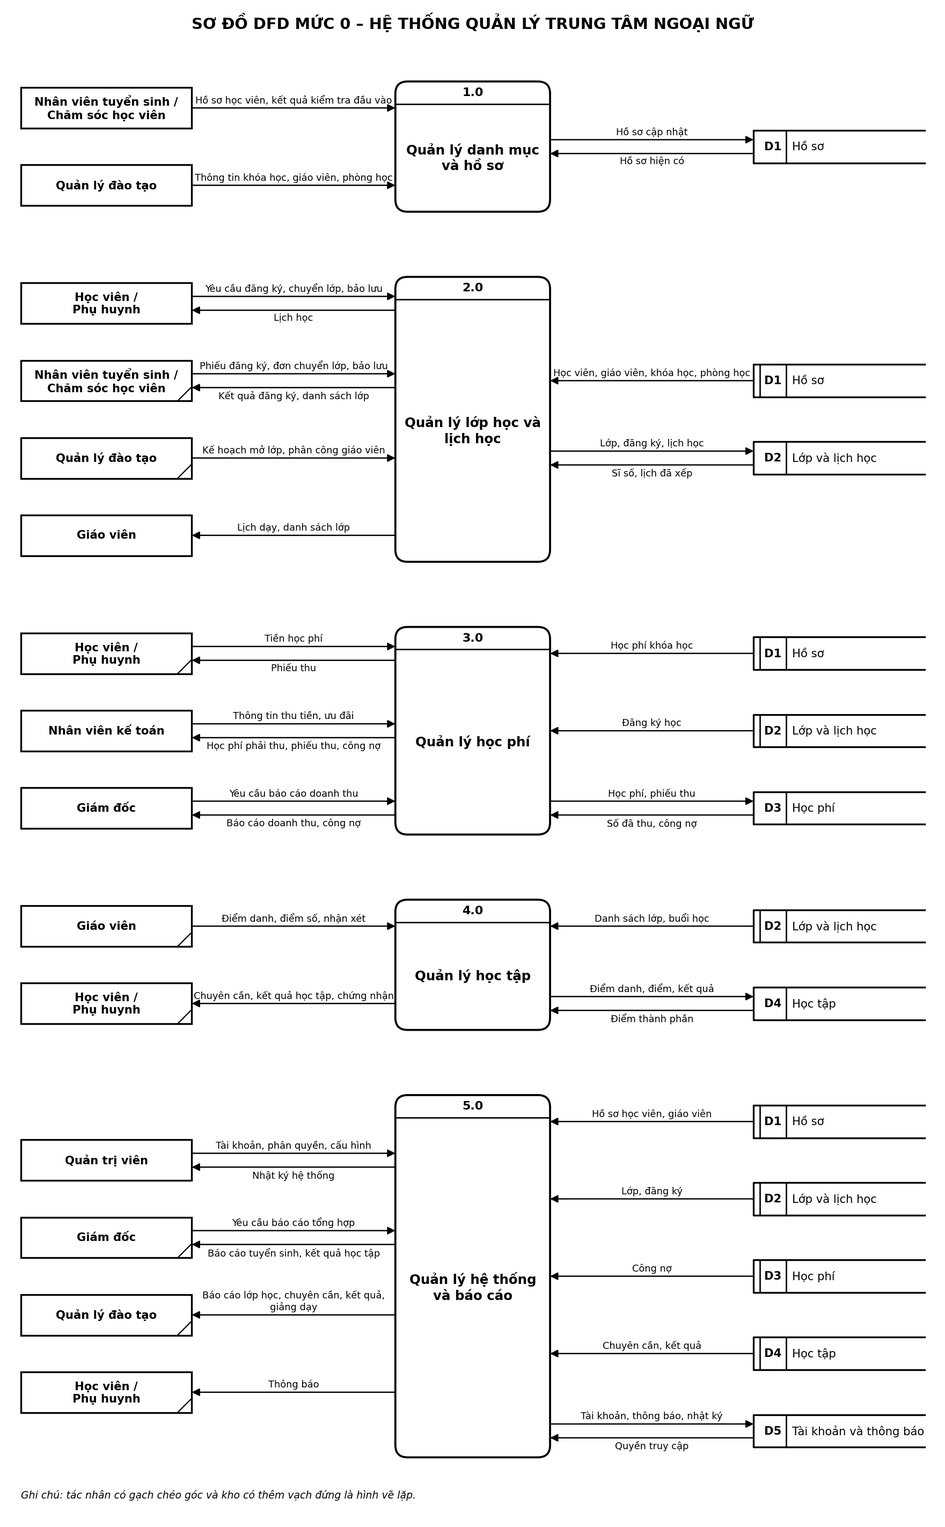
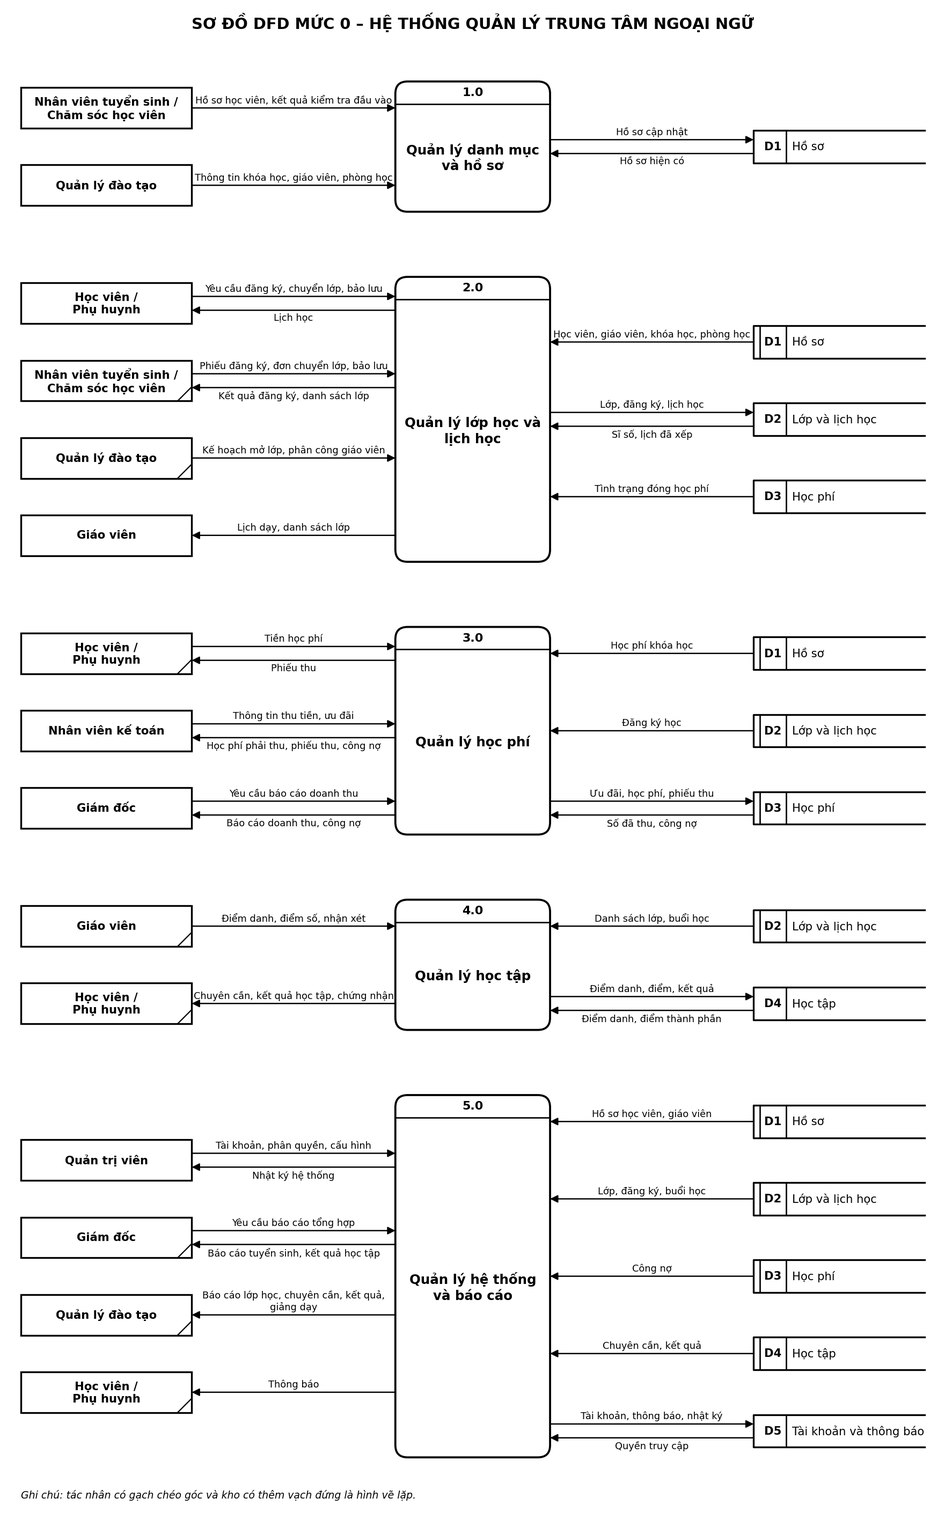
2.2: Phân tích chức năng, ma trận thực thể–chức năng; bổ sung luồng D3→2.0 vào DFD mức 0

Changed region(s): [[0.5934, 0.2164, 0.9682, 0.3401]]

diff --git a/so_do/src/dfd.py b/so_do/src/dfd.py
@@ -68,15 +68,16 @@ LUONG_KHO = [
     ("D1", "2.0", "doc", "Học viên, giáo viên, khóa học, phòng học"),
     ("D2", "2.0", "ghi", "Lớp, đăng ký, lịch học"),
     ("D2", "2.0", "doc", "Sĩ số, lịch đã xếp"),
+    ("D3", "2.0", "doc", "Tình trạng đóng học phí"),
     ("D1", "3.0", "doc", "Học phí khóa học"),
     ("D2", "3.0", "doc", "Đăng ký học"),
-    ("D3", "3.0", "ghi", "Học phí, phiếu thu"),
+    ("D3", "3.0", "ghi", "Ưu đãi, học phí, phiếu thu"),
     ("D3", "3.0", "doc", "Số đã thu, công nợ"),
     ("D2", "4.0", "doc", "Danh sách lớp, buổi học"),
     ("D4", "4.0", "ghi", "Điểm danh, điểm, kết quả"),
-    ("D4", "4.0", "doc", "Điểm thành phần"),
+    ("D4", "4.0", "doc", "Điểm danh, điểm thành phần"),
     ("D1", "5.0", "doc", "Hồ sơ học viên, giáo viên"),
-    ("D2", "5.0", "doc", "Lớp, đăng ký"),
+    ("D2", "5.0", "doc", "Lớp, đăng ký, buổi học"),
     ("D3", "5.0", "doc", "Công nợ"),
     ("D4", "5.0", "doc", "Chuyên cần, kết quả"),
     ("D5", "5.0", "ghi", "Tài khoản, thông báo, nhật ký"),

diff --git a/phan_tich/03_chuc_nang.md b/phan_tich/03_chuc_nang.md
@@ -1,0 +1,166 @@
+# 2.2 Phân tích chức năng – Hệ thống quản lý trung tâm ngoại ngữ
+
+Thuộc giai đoạn Phân tích hệ thống (KE_HOACH.md, mục 2.2). Làm theo quy trình xây dựng BFD trong bài giảng (mục 3.3.2.2):
+**Bước 1** khảo sát chức năng (tên, mô tả, đầu vào, đầu ra) → **Bước 2** mô tả bằng văn bản → **Bước 3** vẽ sơ đồ (`so_do/BFD_v3.png`, sinh từ `so_do/src/bfd.py`).
+
+Quy ước dùng trong tài liệu:
+- Mã và tên chức năng lấy đúng theo `so_do/src/bfd.py`.
+- Tên tác nhân và kho D1–D5 lấy đúng theo DFD mức 0 (`so_do/src/dfd.py`).
+- Mã quy tắc QTxx lấy từ `phan_tich/02_thu_thap.md`, mục 9.3.
+- Cột *Đầu vào / Đầu ra* liệt kê các luồng dữ liệu; đây là nguyên liệu để vẽ DFD mức 1 ở bước 2.3. Luồng nội bộ giữa hai chức năng con được ghi là "từ x.y" hoặc "sang x.y".
+
+---
+
+## 1. Bước 1 – Khảo sát chức năng
+
+### 1.0 Quản lý danh mục và hồ sơ
+
+| Mã | Tên chức năng | Mô tả | Đầu vào | Đầu ra | Người thực hiện | Quy tắc |
+|---|---|---|---|---|---|---|
+| 1.1 | Tiếp nhận hồ sơ, kiểm tra trình độ học viên | Tư vấn, tổ chức kiểm tra đầu vào và ghi trình độ (CEFR). Tạo mới hoặc cập nhật hồ sơ học viên và phụ huynh; kiểm tra trùng hồ sơ theo số điện thoại và ngày sinh. | Hồ sơ học viên, kết quả kiểm tra đầu vào (NV tuyển sinh); hồ sơ hiện có (D1) | Hồ sơ học viên cập nhật (D1) | NV tuyển sinh / CSHV | – |
+| 1.2 | Quản lý hồ sơ giáo viên | Thêm và sửa hồ sơ giáo viên: chuyên môn, ngôn ngữ dạy, bằng cấp, tình trạng làm việc. | Thông tin giáo viên (QL đào tạo) | Hồ sơ giáo viên (D1) | QL đào tạo | – |
+| 1.3 | Quản lý khóa học | Thêm và sửa khóa học: ngôn ngữ, trình độ đầu vào → đầu ra, số buổi, thời lượng, học phí, trọng số điểm. | Thông tin khóa học (QL đào tạo) | Khóa học (D1) | QL đào tạo | QT13 (trọng số) |
+| 1.4 | Quản lý phòng học | Thêm và sửa phòng học: sức chứa, thiết bị, tình trạng sử dụng. | Thông tin phòng học (QL đào tạo) | Phòng học (D1) | QL đào tạo | QT06 (sức chứa) |
+
+### 2.0 Quản lý lớp học và lịch học
+
+| Mã | Tên chức năng | Mô tả | Đầu vào | Đầu ra | Người thực hiện | Quy tắc |
+|---|---|---|---|---|---|---|
+| 2.1 | Mở lớp, phân công giáo viên | Tạo lớp theo khóa học, đặt ngày khai giảng, sĩ số tối đa, phân công giáo viên. Chuyển lớp sang trạng thái *Đang học* khi đủ sĩ số tối thiểu, hoặc *Hủy* nếu không đủ. | Kế hoạch mở lớp, phân công giáo viên (QL đào tạo); khóa học, giáo viên (D1); sĩ số đăng ký (D2) | Lớp học (D2); lớp đã mở (sang 2.3) | QL đào tạo | QT06 |
+| 2.2 | Đăng ký học, xếp học viên vào lớp | Nhận yêu cầu và phiếu đăng ký, kiểm tra lớp còn chỗ, ghi đăng ký (trạng thái *Chờ đóng phí*). Đăng ký có hiệu lực khi học viên đã đóng đợt 1. | Yêu cầu đăng ký (HV/PH); phiếu đăng ký (NV tuyển sinh); học viên (D1); sĩ số lớp (D2); tình trạng đóng học phí (D3) | Đăng ký (D2); kết quả đăng ký, danh sách lớp (NV tuyển sinh) | NV tuyển sinh / CSHV | QT05, QT06 |
+| 2.3 | Xếp lịch, kiểm tra trùng lịch | Sinh các buổi học của lớp theo lịch tuần, gán phòng; từ chối nếu trùng giáo viên hoặc trùng phòng. Xử lý đổi lịch và học bù. | Lớp đã mở (từ 2.1); giáo viên, phòng học (D1); lịch đã xếp (D2) | Buổi học / lịch học (D2); lịch học (HV/PH); lịch dạy, danh sách lớp (Giáo viên) | QL đào tạo | QT07 |
+| 2.4 | Xử lý chuyển lớp, bảo lưu, nghỉ học | Kiểm tra điều kiện rồi cập nhật trạng thái đăng ký: *Chuyển lớp* (tạo đăng ký mới ở lớp đích), *Bảo lưu*, *Nghỉ học*. | Yêu cầu chuyển lớp, bảo lưu (HV/PH); đơn chuyển lớp, bảo lưu (NV tuyển sinh); đăng ký, sĩ số, buổi học (D2); tình trạng đóng học phí (D3) | Đăng ký cập nhật (D2); kết quả xử lý (NV tuyển sinh) | NV tuyển sinh / CSHV | QT08, QT09, QT10 |
+
+### 3.0 Quản lý học phí
+
+| Mã | Tên chức năng | Mô tả | Đầu vào | Đầu ra | Người thực hiện | Quy tắc |
+|---|---|---|---|---|---|---|
+| 3.1 | Tính học phí, áp dụng ưu đãi | Với mỗi đăng ký: lấy học phí của khóa, xét các ưu đãi được hưởng (học viên cũ, đăng ký nhóm, đóng một lần), giới hạn tổng mức giảm, chia đợt và đặt hạn đóng. Kế toán cập nhật danh mục ưu đãi. | Đăng ký học (D2); học phí khóa học (D1); ưu đãi (NV kế toán) | Ưu đãi, khoản học phí phải thu (D3); học phí phải thu (NV kế toán) | NV kế toán (hệ thống tự tính) | QT01–QT05 |
+| 3.2 | Lập phiếu thu | Nhận tiền, đối chiếu với khoản phải thu của đợt, lập phiếu thu, cập nhật số đã thu. | Tiền học phí (HV/PH); thông tin thu tiền (NV kế toán); học phí phải thu, số đã thu (D3) | Phiếu thu (D3); phiếu thu (HV/PH, NV kế toán) | NV kế toán | QT05 |
+| 3.3 | Theo dõi công nợ | Tính công nợ = phải thu − đã thu cho từng đăng ký còn hiệu lực; lọc các khoản quá hạn. Đăng ký nghỉ học không tính nợ. | Học phí, phiếu thu (D3); trạng thái đăng ký (D2) | Công nợ (NV kế toán) | NV kế toán | QT10, QT16 |
+| 3.4 | Thống kê doanh thu | Tổng hợp phiếu thu theo kỳ, khóa học, hình thức thanh toán; kèm tổng công nợ. | Yêu cầu báo cáo doanh thu (Giám đốc); phiếu thu, công nợ (D3) | Báo cáo doanh thu, công nợ (Giám đốc) | NV kế toán, Giám đốc | – |
+
+### 4.0 Quản lý học tập
+
+| Mã | Tên chức năng | Mô tả | Đầu vào | Đầu ra | Người thực hiện | Quy tắc |
+|---|---|---|---|---|---|---|
+| 4.1 | Điểm danh, tính chuyên cần | Giáo viên chọn buổi học và ghi trạng thái từng học viên. Hệ thống tính tỷ lệ chuyên cần và đánh dấu học viên vượt ngưỡng vắng. | Điểm danh (Giáo viên); danh sách lớp, buổi học (D2) | Điểm danh (D4); chuyên cần (HV/PH) | Giáo viên | QT11, QT12 |
+| 4.2 | Nhập điểm thành phần | Giáo viên nhập điểm giữa kỳ, cuối kỳ (thang 10) và nhận xét cho từng học viên. | Điểm số, nhận xét (Giáo viên); danh sách lớp (D2) | Điểm thành phần (D4) | Giáo viên | Điểm trong khoảng 0–10 |
+| 4.3 | Tổng kết, xếp loại | Khi lớp kết thúc: tính điểm chuyên cần, điểm tổng kết theo trọng số, xếp loại và xác định Đạt/Không đạt. | Điểm danh, điểm thành phần (D4) | Kết quả học tập (D4); kết quả học tập (HV/PH); danh sách học viên đạt (sang 4.4) | Hệ thống tự tính, QL đào tạo duyệt | QT13, QT14, QT15 |
+| 4.4 | Cấp chứng nhận hoàn thành khóa học | Cấp số chứng nhận cho học viên đạt và in chứng nhận. | Danh sách học viên đạt (từ 4.3) | Chứng nhận (D4); chứng nhận (HV/PH) | QL đào tạo | QT15 |
+
+### 5.0 Quản lý hệ thống và báo cáo
+
+| Mã | Tên chức năng | Mô tả | Đầu vào | Đầu ra | Người thực hiện | Quy tắc |
+|---|---|---|---|---|---|---|
+| 5.1 | Quản lý tài khoản, phân quyền | Tạo và khóa tài khoản cho nhân viên, giáo viên, học viên, phụ huynh; gán vai trò; cấu hình tham số; ghi và xem nhật ký. | Tài khoản, phân quyền, cấu hình (Quản trị viên); hồ sơ học viên, giáo viên (D1); quyền truy cập (D5) | Tài khoản, nhật ký (D5); nhật ký hệ thống (Quản trị viên) | Quản trị viên | Phụ huynh chỉ xem được thông tin của con mình |
+| 5.2 | Gửi thông báo | Sinh và gửi thông báo: lịch học thay đổi, nhắc học phí sắp hoặc đã quá hạn, cảnh báo vắng học, kết quả học tập. | Lớp, đăng ký, buổi học (D2); công nợ (D3); chuyên cần, kết quả (D4); hồ sơ học viên, phụ huynh (D1); tài khoản nhận (D5) | Thông báo (D5); thông báo (HV/PH) | Hệ thống tự động, NV CSHV | QT12, QT16 |
+| 5.3 | Lập báo cáo tuyển sinh, tình trạng lớp | Số học viên mới theo tháng và khóa học; sĩ số và tỷ lệ lấp đầy từng lớp; số lớp mở và hủy. | Yêu cầu báo cáo tổng hợp (Giám đốc); hồ sơ học viên (D1); lớp, đăng ký (D2) | Báo cáo tuyển sinh (Giám đốc); báo cáo lớp học (QL đào tạo) | QL đào tạo, Giám đốc | – |
+| 5.4 | Lập báo cáo chuyên cần, kết quả, giảng dạy | Tỷ lệ chuyên cần theo lớp, danh sách học viên nghỉ nhiều; tỷ lệ đạt và phân bố xếp loại; số buổi dạy của từng giáo viên. | Yêu cầu báo cáo tổng hợp (Giám đốc); giáo viên (D1); lớp, buổi học (D2); chuyên cần, kết quả (D4) | Báo cáo chuyên cần, kết quả, giảng dạy (QL đào tạo); báo cáo kết quả học tập (Giám đốc) | QL đào tạo, Giám đốc | – |
+
+---
+
+## 2. Bước 2 – Mô tả hoạt động và mối quan hệ giữa các chức năng
+
+Viết theo dạng văn bản như ví dụ trong bài giảng (Ví dụ 2 – Ngân hàng X).
+
+"Trung tâm ngoại ngữ có 5 nhiệm vụ chính: **quản lý danh mục và hồ sơ**, **quản lý lớp học và lịch học**, **quản lý học phí**, **quản lý học tập**, và **quản lý hệ thống và báo cáo**.
+
+Khi học viên đến trung tâm, nhân viên tuyển sinh **tiếp nhận hồ sơ và kiểm tra trình độ** để xác định học viên phù hợp với khóa nào. Từ trước đó, quản lý đào tạo đã cập nhật **hồ sơ giáo viên**, **khóa học** và **phòng học** để làm danh mục dùng chung.
+
+Dựa trên danh mục, quản lý đào tạo **mở lớp và phân công giáo viên**. Nhân viên tuyển sinh **đăng ký học và xếp học viên vào lớp** còn chỗ. Lớp đủ sĩ số tối thiểu thì được **xếp lịch**, đồng thời hệ thống **kiểm tra trùng lịch** giáo viên và phòng học; lịch học được gửi cho học viên, lịch dạy được gửi cho giáo viên. Trong quá trình học, các yêu cầu **chuyển lớp, bảo lưu, nghỉ học** được xét theo quy định rồi cập nhật vào đăng ký.
+
+Mỗi đăng ký phát sinh học phí. Kế toán **tính học phí và áp dụng ưu đãi**, sau đó **lập phiếu thu** mỗi lần học viên đóng tiền. Đăng ký chỉ có hiệu lực khi học viên đã đóng đợt 1. Kế toán **theo dõi công nợ** của các khoản chưa đóng hoặc đã quá hạn, và định kỳ **thống kê doanh thu** gửi giám đốc.
+
+Ở mỗi buổi học, giáo viên **điểm danh**, hệ thống tính chuyên cần. Giáo viên **nhập điểm thành phần**. Khi lớp kết thúc, hệ thống **tổng kết và xếp loại**; học viên đạt yêu cầu được **cấp chứng nhận hoàn thành khóa học**.
+
+Xuyên suốt các hoạt động trên, quản trị viên **quản lý tài khoản và phân quyền**. Hệ thống **gửi thông báo** về lịch học, học phí, chuyên cần và kết quả cho học viên và phụ huynh, đồng thời **lập báo cáo tuyển sinh, tình trạng lớp** và **báo cáo chuyên cần, kết quả, giảng dạy** cho quản lý đào tạo và giám đốc."
+
+Các phần chữ in đậm khớp 1–1 với 5 chức năng cấp 1 và 20 chức năng lá trong BFD_v3. Riêng các cụm "kiểm tra trùng lịch" và "điểm danh" là một phần trong tên của chức năng 2.3 và 4.1.
+
+---
+
+## 3. Bước 3 – Sơ đồ BFD và kiểm tra nguyên tắc phân rã
+
+Sơ đồ: `so_do/BFD_v3.png`.
+
+| Chức năng cha | Nguyên tắc *thực chất* (mỗi chức năng con thực sự là một phần của chức năng cha) | Nguyên tắc *đầy đủ* (các chức năng con cộng lại làm trọn chức năng cha) |
+|---|---|---|
+| 1.0 | Cả 4 chức năng con đều quản lý một loại hồ sơ hoặc danh mục | Bao phủ đủ 4 nhóm đối tượng gốc: học viên (kèm phụ huynh), giáo viên, khóa học, phòng học |
+| 2.0 | Cả 4 chức năng con đều thao tác trên lớp, đăng ký hoặc lịch | Đủ vòng đời: mở lớp → ghi danh → xếp lịch → thay đổi đăng ký |
+| 3.0 | Cả 4 chức năng con đều thao tác trên khoản thu | Đủ chu trình: tính phí → thu → theo dõi nợ → thống kê |
+| 4.0 | Cả 4 chức năng con đều thao tác trên dữ liệu học tập | Đủ chu trình: chuyên cần → điểm → tổng kết → chứng nhận |
+| 5.0 | Cả 4 chức năng con đều là chức năng hỗ trợ dùng chung hoặc chức năng tổng hợp | Đủ: quản trị truy cập, truyền thông tin ra ngoài, 2 nhóm báo cáo MIS |
+
+Các chức năng cùng cấp có độ phức tạp tương đương (cấp 1 đều có 4 chức năng con; mỗi chức năng lá là một nghiệp vụ trọn vẹn do một vai trò thực hiện). Tên chức năng đều theo dạng động từ + bổ ngữ.
+
+---
+
+## 4. Ma trận thực thể – chức năng
+
+Mục đích: làm cầu nối từ chức năng sang DFD (luồng vào/ra kho) và sang ERD (bước 3.1–3.2). Danh sách thực thể ở đây là **dự kiến**, lấy từ 20 đối tượng dữ liệu của BT1 và 5 chứng từ ở bước 2.1; tên có thể chỉnh lại khi chuẩn hóa.
+
+**Ký hiệu:** C = tạo, U = sửa, R = đọc.
+
+| Viết tắt | Thực thể | Kho |
+|---|---|---|
+| HV | Học viên | D1 |
+| PH | Phụ huynh | D1 |
+| GV | Giáo viên | D1 |
+| KH | Khóa học | D1 |
+| PHG | Phòng học | D1 |
+| LOP | Lớp học | D2 |
+| DK | Đăng ký học | D2 |
+| BH | Buổi học (lịch học) | D2 |
+| UD | Ưu đãi | D3 |
+| HP | Học phí phải thu (theo đăng ký, theo đợt) | D3 |
+| PT | Phiếu thu | D3 |
+| DD | Điểm danh | D4 |
+| DIEM | Điểm thành phần | D4 |
+| KQ | Kết quả học tập | D4 |
+| CN | Chứng nhận | D4 |
+| NV | Nhân viên | D5 |
+| TK | Tài khoản | D5 |
+| TB | Thông báo | D5 |
+| NK | Nhật ký hệ thống | D5 |
+
+| Chức năng | HV | PH | GV | KH | PHG | LOP | DK | BH | UD | HP | PT | DD | DIEM | KQ | CN | NV | TK | TB | NK |
+|---|---|---|---|---|---|---|---|---|---|---|---|---|---|---|---|---|---|---|---|
+| 1.1 | CRU | CU | | | | | | | | | | | | | | | | | |
+| 1.2 | | | CU | | | | | | | | | | | | | | | | |
+| 1.3 | | | | CU | | | | | | | | | | | | | | | |
+| 1.4 | | | | | CU | | | | | | | | | | | | | | |
+| 2.1 | | | R | R | | CU | R | | | | | | | | | | | | |
+| 2.2 | R | | | | | R | C | | | R | R | | | | | | | | |
+| 2.3 | | | R | | R | R | | CU | | | | | | | | | | | |
+| 2.4 | | | | | | R | CU | R | | R | R | | | | | | | | |
+| 3.1 | | | | R | | R | R | | CU | C | | | | | | | | | |
+| 3.2 | | | | | | | | | | R | C | | | | | | | | |
+| 3.3 | | | | | | | R | | | R | R | | | | | | | | |
+| 3.4 | | | | | | | | | | R | R | | | | | | | | |
+| 4.1 | | | | | | | R | R | | | | CU | | | | | | | |
+| 4.2 | | | | | | | R | | | | | | CU | | | | | | |
+| 4.3 | | | | R | | | R | | | | | R | R | CU | | | | | |
+| 4.4 | | | | | | | | | | | | | | R | C | | | | |
+| 5.1 | R | R | R | | | | | | | | | | | | | CU | CU | | CR |
+| 5.2 | R | R | | | | R | R | R | | R | R | R | | R | | | R | C | |
+| 5.3 | R | | | R | | R | R | | | | | | | | | | | | |
+| 5.4 | | | R | | | R | R | R | | | | R | | R | | | | | |
+
+### Kiểm tra ma trận
+
+- **Mỗi thực thể đều có chức năng tạo (C):** đạt, cả 19 thực thể.
+- **Mỗi chức năng đều đụng tới dữ liệu:** đạt, cả 20 chức năng.
+- **Khớp với DFD mức 0:** mọi ô C/U của một chức năng x.y đều nằm ở kho mà tiến trình x.0 có luồng *ghi*, và mọi ô R đều nằm ở kho mà x.0 có luồng *đọc*, hoặc ở kho mà chính x.0 ghi vào (`so_do/can_bang_dfd.md`). Các ngoại lệ:
+  - 4.3 đọc KH (trọng số điểm, D1). Trọng số này được chép sang lớp khi mở lớp nên 4.3 chỉ cần đọc D2/D4; sẽ chốt lại ở bước chuẩn hóa 3.3.
+  - Khi rà ma trận, nhóm phát hiện tiến trình 2.0 còn thiếu luồng đọc D3 (2.2 và 2.4 cần biết tình trạng đóng học phí theo QT05 và QT09). Đã bổ sung luồng **"Tình trạng đóng học phí" (D3 → 2.0)** vào `so_do/src/dfd.py` và vẽ lại DFD mức 0.
+- Mã nhân viên lập phiếu (NV) lấy từ phiên đăng nhập nên không vẽ thành luồng đọc D5 trên DFD.
+
+## 5. Đầu ra cho các bước sau
+
+| Bước | Dùng gì từ tài liệu này |
+|---|---|
+| 2.3 DFD mức 1 | Cột Đầu vào / Đầu ra ở mục 1 → các luồng của DFD-1.0 … DFD-5.0 (phải cân bằng với `so_do/can_bang_dfd.md`) |
+| 2.4 Đặc tả xử lý | Cột Quy tắc → bảng/cây quyết định cho 2.4, 3.1, 4.1, 4.3 |
+| 3.1–3.2 Thực thể, ERD | Danh sách thực thể và cột Kho ở mục 4 |
+| 3.5 Module, phân quyền | Cột Người thực hiện → ma trận vai trò × chức năng |

diff --git a/so_do/can_bang_dfd.md b/so_do/can_bang_dfd.md
@@ -40,11 +40,12 @@
 | D2 Lớp và lịch học | 2.0 | Ghi vào kho | Lớp, đăng ký, lịch học |
 | D2 Lớp và lịch học | 3.0 | Đọc từ kho | Đăng ký học |
 | D2 Lớp và lịch học | 4.0 | Đọc từ kho | Danh sách lớp, buổi học |
-| D2 Lớp và lịch học | 5.0 | Đọc từ kho | Lớp, đăng ký |
+| D2 Lớp và lịch học | 5.0 | Đọc từ kho | Lớp, đăng ký, buổi học |
+| D3 Học phí | 2.0 | Đọc từ kho | Tình trạng đóng học phí |
 | D3 Học phí | 3.0 | Đọc từ kho | Số đã thu, công nợ |
-| D3 Học phí | 3.0 | Ghi vào kho | Học phí, phiếu thu |
+| D3 Học phí | 3.0 | Ghi vào kho | Ưu đãi, học phí, phiếu thu |
 | D3 Học phí | 5.0 | Đọc từ kho | Công nợ |
-| D4 Học tập | 4.0 | Đọc từ kho | Điểm thành phần |
+| D4 Học tập | 4.0 | Đọc từ kho | Điểm danh, điểm thành phần |
 | D4 Học tập | 4.0 | Ghi vào kho | Điểm danh, điểm, kết quả |
 | D4 Học tập | 5.0 | Đọc từ kho | Chuyên cần, kết quả |
 | D5 Tài khoản và thông báo | 5.0 | Đọc từ kho | Quyền truy cập |

diff --git a/README.md b/README.md
@@ -13,7 +13,7 @@
 ## Nội dung
 - `bai_tap_1/` – Báo cáo phân tích theo 6 góc nhìn (Word + PDF)
 - `so_do/` – Sơ đồ BFD_v3, DFD mức ngữ cảnh, DFD mức 0, bảng cân bằng DFD (`can_bang_dfd.md`)
-- `phan_tich/` – Tài liệu giai đoạn phân tích (2.1 thu thập thông tin, quy tắc nghiệp vụ QT01–QT16)
+- `phan_tich/` – Tài liệu giai đoạn phân tích: 2.1 thu thập thông tin (quy tắc nghiệp vụ QT01–QT16), 2.2 phân tích chức năng (mô tả 20 chức năng, ma trận thực thể – chức năng)
 - `so_do/src/` – Script sinh sơ đồ: sửa dữ liệu trong `bfd.py` / `dfd.py` rồi chạy `python so_do/src/bfd.py` và `python so_do/src/dfd.py` (cần matplotlib)
 - `KE_HOACH.md` – Kế hoạch xuyên suốt dự án (giai đoạn, sản phẩm, phân công, kiểm tra)
 

diff --git a/KE_HOACH.md b/KE_HOACH.md
@@ -52,7 +52,7 @@ Sản phẩm: `phan_tich/01_ke_hoach.md` → chương 1 báo cáo tổng.
 - Kế hoạch phỏng vấn (Giám đốc, QL đào tạo, NV tuyển sinh, Kế toán, GV): câu hỏi mở + đóng; 1 phiếu điều tra học viên (tiêu đề – định danh – câu hỏi – kết thúc).
 - Bảng so sánh ưu/nhược 6 phương pháp, nêu phương pháp nhóm dùng.
 
-### 2.2 Phân tích chức năng – `phan_tich/03_chuc_nang.md`
+### 2.2 Phân tích chức năng – `phan_tich/03_chuc_nang.md` ✅ (xong 2026-10-02)
 - Bảng mô tả từng chức năng lá BFD: Mã – Tên – Mô tả – Đầu vào – Đầu ra – Người thực hiện (20 dòng).
 - Ma trận thực thể–chức năng (chức năng nào tạo/đọc/sửa dữ liệu gì) → làm cầu nối sang DFD và ERD.
 

diff --git a/phan_tich/02_thu_thap.md b/phan_tich/02_thu_thap.md
@@ -286,7 +286,7 @@ Các bước 2.4 (bảng/cây quyết định), 3.4 (ràng buộc CHECK) và dem
 
 | Mã | Quy tắc | Áp dụng ở |
 |---|---|---|
-| QT01 | Ưu đãi **học viên cũ** (đã hoàn thành ít nhất 1 khóa): giảm 10% | 3.1 |
+| QT01 | Ưu đãi **học viên cũ** (đã học hết ít nhất 1 khóa trước đó: lớp đã kết thúc, đăng ký không ở trạng thái nghỉ học): giảm 10% | 3.1 |
 | QT02 | Ưu đãi **đăng ký nhóm** (từ 3 người trở lên, đăng ký cùng ngày): giảm 5% | 3.1 |
 | QT03 | Ưu đãi **đóng một lần** toàn bộ học phí: giảm 5% | 3.1 |
 | QT04 | Các ưu đãi được cộng dồn nhưng tổng mức giảm **tối đa 15%**; chỉ áp dụng ưu đãi còn trong thời gian hiệu lực | 3.1 |
